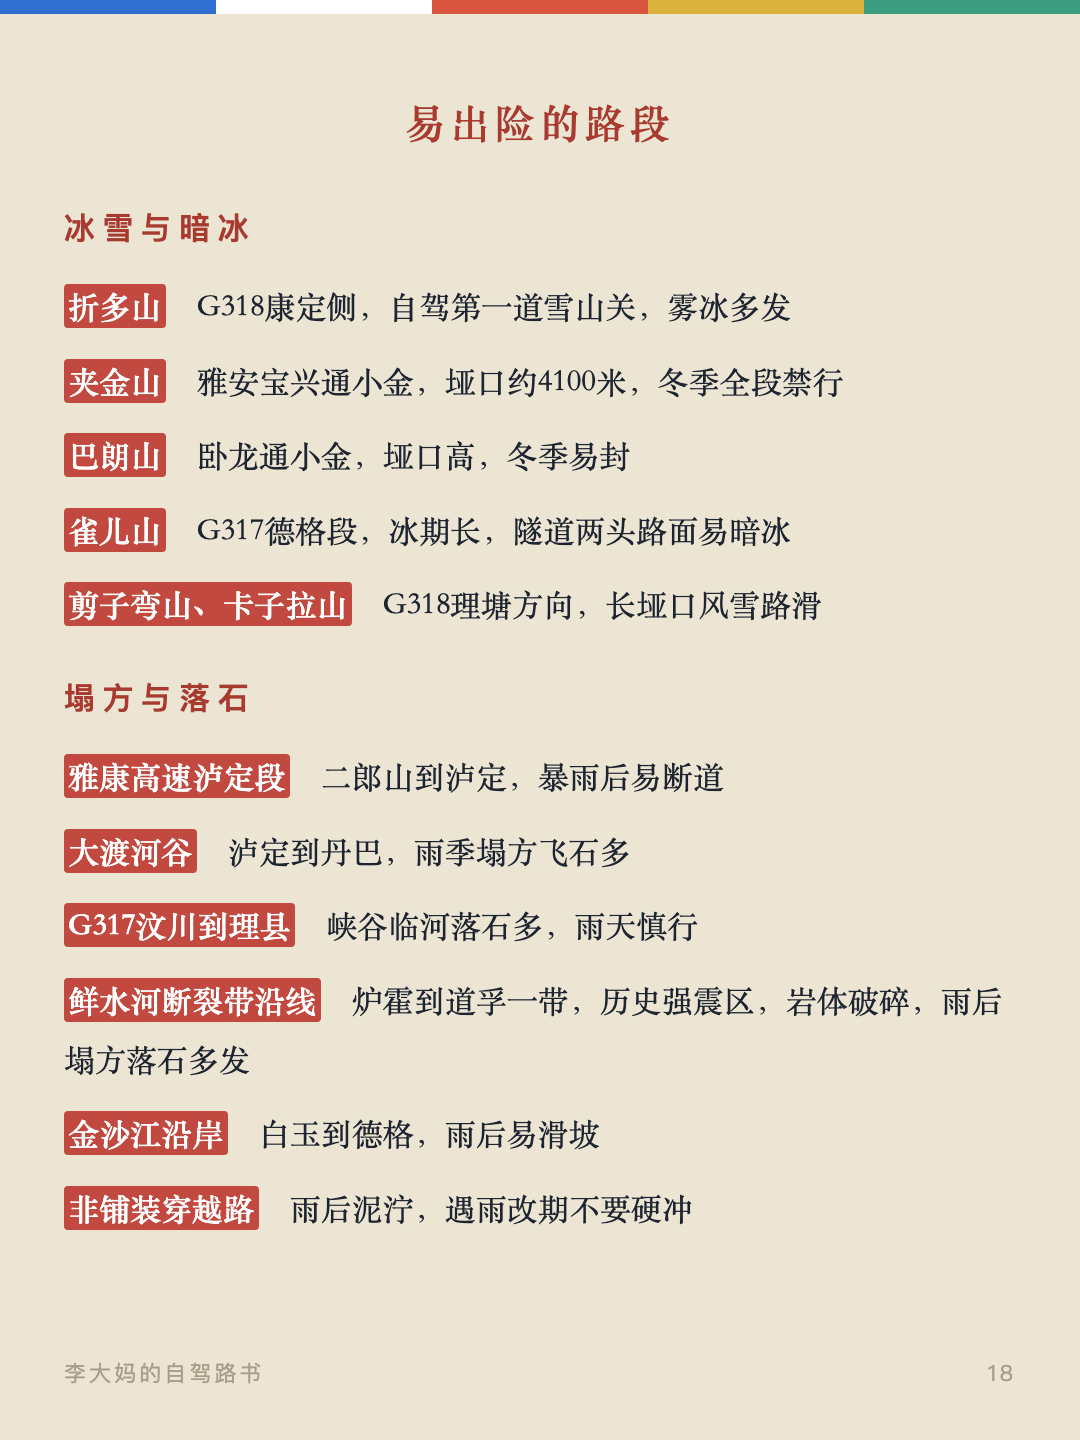
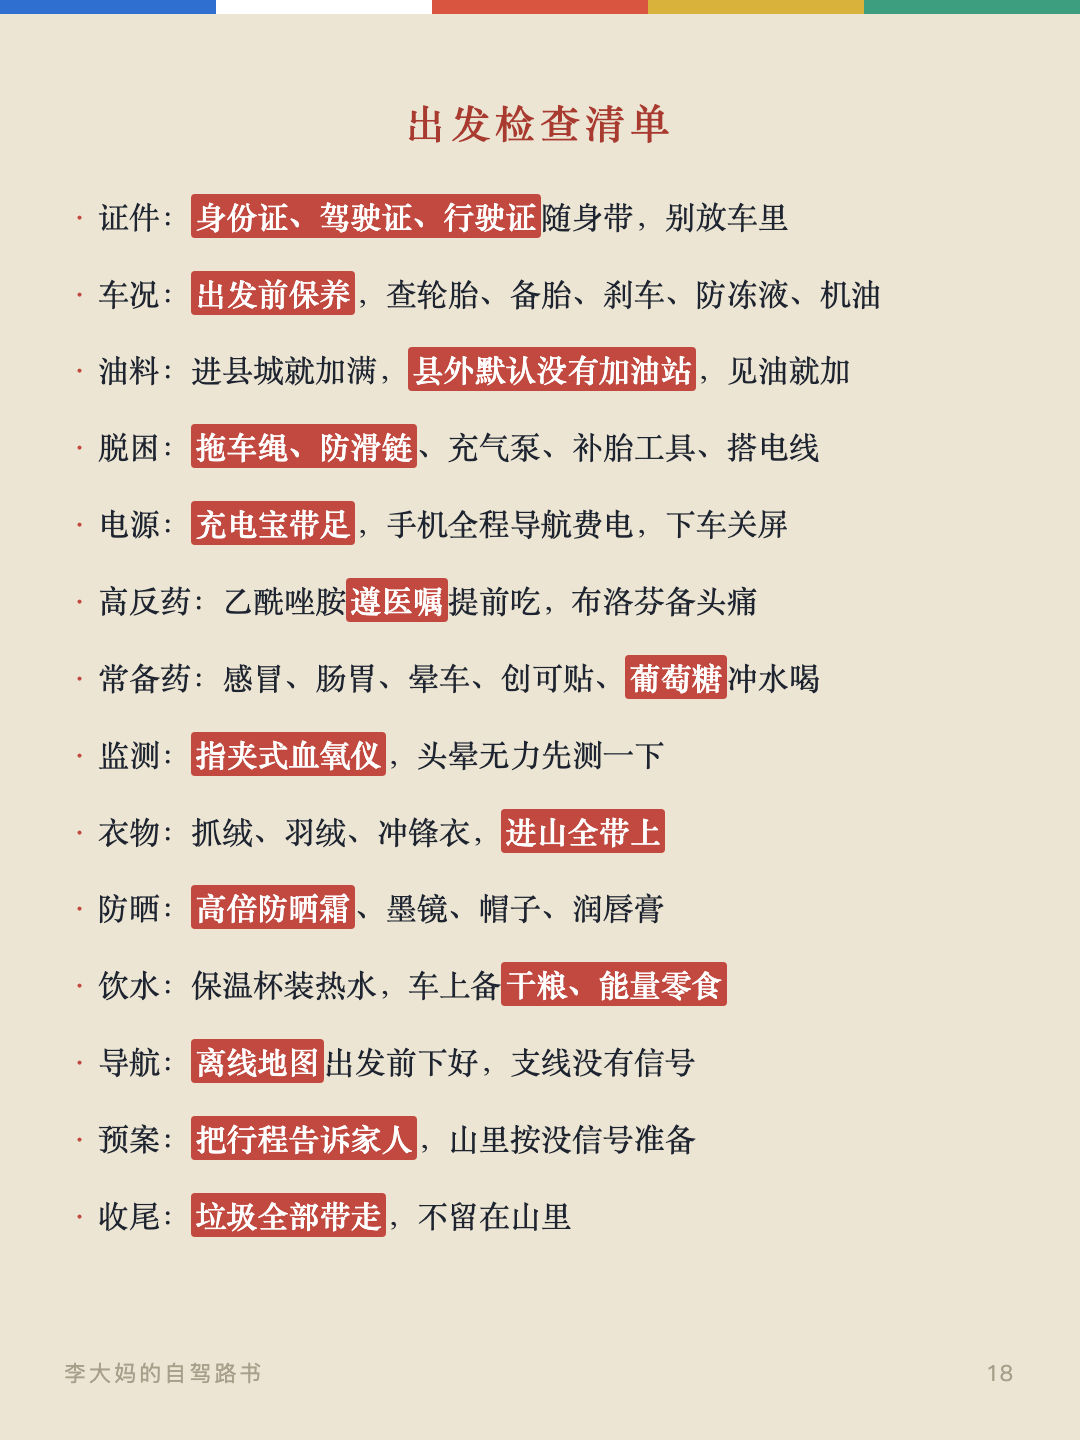
附录三页顺序改为 险段→官方渠道→检查清单（16页现为易出险路段）

diff --git a/cards.html b/cards.html
@@ -153,11 +153,11 @@
 
 <div class="card" id="card15"><div class="flag" aria-hidden="true"><span style="background:var(--flag-blue)"></span><span style="background:var(--flag-white)"></span><span style="background:var(--flag-red)"></span><span style="background:var(--flag-yellow)"></span><span style="background:var(--flag-green)"></span></div><div class="card__inner"><p>民居在藏寨之外还有几路。乡城白藏房，2020年评上“中国白藏房文化之乡”，现存6000多栋，土木结构，土墙夯筑，能用上百年，墙体收成梯形，大小看柱子多少。传统上四到六层，底层养牲畜，二层住人，上面晒粮。每年有个“白色灌礼”的民俗，用山上一种白土拌水从墙头浇下来，把墙浇白，既加固又祈福。木雅藏房在康定木雅地区，片石砌筑。羌族的桃坪羌寨在阿坝理县，房子叫“庄房”，全石砌成，<strong>工匠不绘图、不计算，全凭经验积累</strong>，石墙一层层向内收分，屋顶平台家家相连，外号“东方神秘古堡”。寨里的羌碉9层、高约30米，经受了1933年叠溪、2008年汶川几次大地震。</p><p>寺院建筑，有一套固定骨架：大经堂（指钦）是核心，佛学院（礼仓）、佛殿（拉康）、印经院在侧，整体依山而建，不追求中轴线对称。大经堂空间高阔、柱网密集，阿坝格尔登寺的大经堂有120根大柱子撑起殿顶。<strong>金顶是等级的标志</strong>，重檐歇山、铜瓦鎏金，顶上立镏金宝瓶、法轮金鹿，是藏汉结合的做法，色达东嘎寺主殿金顶用真金箔，几公里外都看得见。辩经场挨着佛学院，僧人在空地上拍掌问答；转经廊绕着佛堂或佛塔排满转经轮，格尔登寺49米高的佛塔外围有几百个小转经轮。各教派都能看：理塘长青春科尔寺1580年建，占地33万平方米，是康区规模最大的格鲁寺；马尔康大藏寺是嘉绒碉房式；木雅地区还有汉藏结合的碉楼经堂。苯教寺院另成一路，金川雍忠拉顶寺是代表。</p><div class="card__foot"><span>李大妈的自驾路书</span><span>15</span></div></div></div>
 
-<div class="card" id="card16"><div class="flag" aria-hidden="true"><span style="background:var(--flag-blue)"></span><span style="background:var(--flag-white)"></span><span style="background:var(--flag-red)"></span><span style="background:var(--flag-yellow)"></span><span style="background:var(--flag-green)"></span></div><div class="card__inner"><h2>出发检查清单</h2><ul class="card__list"><li>证件：<strong>身份证、驾驶证、行驶证</strong>随身带，别放车里</li> <li>车况：<strong>出发前保养</strong>，查轮胎、备胎、刹车、防冻液、机油</li> <li>油料：进县城就加满，<strong>县外默认没有加油站</strong>，见油就加</li> <li>脱困：<strong>拖车绳、防滑链</strong>、充气泵、补胎工具、搭电线</li> <li>电源：<strong>充电宝带足</strong>，手机全程导航费电，下车关屏</li> <li>高反药：乙酰唑胺<strong>遵医嘱</strong>提前吃，布洛芬备头痛</li> <li>常备药：感冒、肠胃、晕车、创可贴、<strong>葡萄糖</strong>冲水喝</li> <li>监测：<strong>指夹式血氧仪</strong>，头晕无力先测一下</li> <li>衣物：抓绒、羽绒、冲锋衣，<strong>进山全带上</strong></li> <li>防晒：<strong>高倍防晒霜</strong>、墨镜、帽子、润唇膏</li> <li>饮水：保温杯装热水，车上备<strong>干粮、能量零食</strong></li> <li>导航：<strong>离线地图</strong>出发前下好，支线没有信号</li> <li>预案：<strong>把行程告诉家人</strong>，山里按没信号准备</li> <li>收尾：<strong>垃圾全部带走</strong>，不留在山里</li></ul><div class="card__foot"><span>李大妈的自驾路书</span><span>16</span></div></div></div>
+<div class="card" id="card16"><div class="flag" aria-hidden="true"><span style="background:var(--flag-blue)"></span><span style="background:var(--flag-white)"></span><span style="background:var(--flag-red)"></span><span style="background:var(--flag-yellow)"></span><span style="background:var(--flag-green)"></span></div><div class="card__inner"><h2>易出险的路段</h2><h3>冰雪与暗冰</h3><ul class="card__cwords"><li><b>折多山</b>G318康定侧，自驾第一道雪山关，雾冰多发</li> <li><b>夹金山</b>雅安宝兴通小金，垭口约4100米，冬季全段禁行</li> <li><b>巴朗山</b>卧龙通小金，垭口高，冬季易封</li> <li><b>雀儿山</b>G317德格段，冰期长，隧道两头路面易暗冰</li> <li><b>剪子弯山、卡子拉山</b>G318理塘方向，长垭口风雪路滑</li></ul><h3>塌方与落石</h3><ul class="card__cwords"><li><b>雅康高速泸定段</b>二郎山到泸定，暴雨后易断道</li> <li><b>大渡河谷</b>泸定到丹巴，雨季塌方飞石多</li> <li><b>G317汶川到理县</b>峡谷临河落石多，雨天慎行</li> <li><b>鲜水河断裂带沿线</b>炉霍到道孚一带，历史强震区，岩体破碎，雨后塌方落石多发</li> <li><b>金沙江沿岸</b>白玉到德格，雨后易滑坡</li> <li><b>非铺装穿越路</b>雨后泥泞，遇雨改期不要硬冲</li></ul><div class="card__foot"><span>李大妈的自驾路书</span><span>16</span></div></div></div>
 
 <div class="card" id="card17"><div class="flag" aria-hidden="true"><span style="background:var(--flag-blue)"></span><span style="background:var(--flag-white)"></span><span style="background:var(--flag-red)"></span><span style="background:var(--flag-yellow)"></span><span style="background:var(--flag-green)"></span></div><div class="card__inner"><h2>路上的官方渠道</h2><h3>路况与管制</h3><ul class="card__cwords"><li><b>四川交通广播</b>FM101.7，省域实时路况和封路，最常用</li> <li><b>四川交警高速公路一支队</b>成都周边和高速管制</li> <li><b>阿坝公安交警</b>阿坝州路况与管制</li> <li><b>甘孜州交管支队</b>甘孜州路况与管制</li> <li><b>康定公安正警事儿</b>折多山管制多临时处置，实时看它</li> <li>高速报警96122，交通监督热线12328</li></ul><h3>天气、充电与预约</h3><ul class="card__cwords"><li><b>四川气象</b>暴雨、地灾气象风险预警</li> <li><b>中央气象台</b>逐县预报准，垭口前看逐小时</li> <li><b>国家预警发布</b>各类预警统一推送</li> <li><b>掌上通甘孜</b>甘孜州充电桩查询，电车补能靠它</li> <li><b>一部手机游阿坝</b>阿坝景区门票预约</li> <li>垭口天气预报，提前一天关注<strong>中央气象台的逐小时预报</strong>定行车窗口；临时管制消息，则以当天的<strong>FM101.7广播和高德路况</strong>为准</li></ul><div class="card__foot"><span>李大妈的自驾路书</span><span>17</span></div></div></div>
 
-<div class="card" id="card18"><div class="flag" aria-hidden="true"><span style="background:var(--flag-blue)"></span><span style="background:var(--flag-white)"></span><span style="background:var(--flag-red)"></span><span style="background:var(--flag-yellow)"></span><span style="background:var(--flag-green)"></span></div><div class="card__inner"><h2>易出险的路段</h2><h3>冰雪与暗冰</h3><ul class="card__cwords"><li><b>折多山</b>G318康定侧，自驾第一道雪山关，雾冰多发</li> <li><b>夹金山</b>雅安宝兴通小金，垭口约4100米，冬季全段禁行</li> <li><b>巴朗山</b>卧龙通小金，垭口高，冬季易封</li> <li><b>雀儿山</b>G317德格段，冰期长，隧道两头路面易暗冰</li> <li><b>剪子弯山、卡子拉山</b>G318理塘方向，长垭口风雪路滑</li></ul><h3>塌方与落石</h3><ul class="card__cwords"><li><b>雅康高速泸定段</b>二郎山到泸定，暴雨后易断道</li> <li><b>大渡河谷</b>泸定到丹巴，雨季塌方飞石多</li> <li><b>G317汶川到理县</b>峡谷临河落石多，雨天慎行</li> <li><b>鲜水河断裂带沿线</b>炉霍到道孚一带，历史强震区，岩体破碎，雨后塌方落石多发</li> <li><b>金沙江沿岸</b>白玉到德格，雨后易滑坡</li> <li><b>非铺装穿越路</b>雨后泥泞，遇雨改期不要硬冲</li></ul><div class="card__foot"><span>李大妈的自驾路书</span><span>18</span></div></div></div>
+<div class="card" id="card18"><div class="flag" aria-hidden="true"><span style="background:var(--flag-blue)"></span><span style="background:var(--flag-white)"></span><span style="background:var(--flag-red)"></span><span style="background:var(--flag-yellow)"></span><span style="background:var(--flag-green)"></span></div><div class="card__inner"><h2>出发检查清单</h2><ul class="card__list"><li>证件：<strong>身份证、驾驶证、行驶证</strong>随身带，别放车里</li> <li>车况：<strong>出发前保养</strong>，查轮胎、备胎、刹车、防冻液、机油</li> <li>油料：进县城就加满，<strong>县外默认没有加油站</strong>，见油就加</li> <li>脱困：<strong>拖车绳、防滑链</strong>、充气泵、补胎工具、搭电线</li> <li>电源：<strong>充电宝带足</strong>，手机全程导航费电，下车关屏</li> <li>高反药：乙酰唑胺<strong>遵医嘱</strong>提前吃，布洛芬备头痛</li> <li>常备药：感冒、肠胃、晕车、创可贴、<strong>葡萄糖</strong>冲水喝</li> <li>监测：<strong>指夹式血氧仪</strong>，头晕无力先测一下</li> <li>衣物：抓绒、羽绒、冲锋衣，<strong>进山全带上</strong></li> <li>防晒：<strong>高倍防晒霜</strong>、墨镜、帽子、润唇膏</li> <li>饮水：保温杯装热水，车上备<strong>干粮、能量零食</strong></li> <li>导航：<strong>离线地图</strong>出发前下好，支线没有信号</li> <li>预案：<strong>把行程告诉家人</strong>，山里按没信号准备</li> <li>收尾：<strong>垃圾全部带走</strong>，不留在山里</li></ul><div class="card__foot"><span>李大妈的自驾路书</span><span>18</span></div></div></div>
 
 
 <script>

diff --git a/index.html b/index.html
@@ -309,24 +309,25 @@
 
     <!-- 附录 -->
     <section class="part appendix" id="appendix">
-      <div class="part__head"><span class="part__no" aria-hidden="true">附</span><h2>出发清单、路况与险段</h2></div>
+      <div class="part__head"><span class="part__no" aria-hidden="true">附</span><h2>险段、官方渠道与出发清单</h2></div>
 
-      <h3>出发检查清单</h3>
-      <ul>
-        <li>证件：<strong>身份证、驾驶证、行驶证</strong>随身带，别放车里</li>
-        <li>车况：<strong>出发前保养</strong>，查轮胎、备胎、刹车、防冻液、机油</li>
-        <li>油料：进县城就加满，<strong>县外默认没有加油站</strong>，见油就加</li>
-        <li>脱困：<strong>拖车绳、防滑链</strong>、充气泵、补胎工具、搭电线</li>
-        <li>电源：<strong>充电宝带足</strong>，手机全程导航费电，下车关屏</li>
-        <li>高反药：乙酰唑胺<strong>遵医嘱</strong>提前吃，布洛芬备头痛</li>
-        <li>常备药：感冒、肠胃、晕车、创可贴、<strong>葡萄糖</strong>冲水喝</li>
-        <li>监测：<strong>指夹式血氧仪</strong>，头晕无力先测一下</li>
-        <li>衣物：抓绒、羽绒、冲锋衣，<strong>进山全带上</strong></li>
-        <li>防晒：<strong>高倍防晒霜</strong>、墨镜、帽子、润唇膏</li>
-        <li>饮水：保温杯装热水，车上备<strong>干粮、能量零食</strong></li>
-        <li>导航：<strong>离线地图</strong>出发前下好，支线没有信号</li>
-        <li>预案：<strong>把行程告诉家人</strong>，山里按没信号准备</li>
-        <li>收尾：<strong>垃圾全部带走</strong>，不留在山里</li>
+      <h3>易出险的路段</h3>
+      <h3>冰雪与暗冰</h3>
+      <ul class="c-words">
+        <li><b>折多山</b>G318康定侧，自驾第一道雪山关，雾冰多发</li>
+        <li><b>夹金山</b>雅安宝兴通小金，垭口约4100米，冬季全段禁行</li>
+        <li><b>巴朗山</b>卧龙通小金，垭口高，冬季易封</li>
+        <li><b>雀儿山</b>G317德格段，冰期长，隧道两头路面易暗冰</li>
+        <li><b>剪子弯山、卡子拉山</b>G318理塘方向，长垭口风雪路滑</li>
+      </ul>
+      <h3>塌方与落石</h3>
+      <ul class="c-words">
+        <li><b>雅康高速泸定段</b>二郎山到泸定，暴雨后易断道</li>
+        <li><b>大渡河谷</b>泸定到丹巴，雨季塌方飞石多</li>
+        <li><b>G317汶川到理县</b>峡谷临河落石多，雨天慎行</li>
+        <li><b>鲜水河断裂带沿线</b>炉霍到道孚一带，历史强震区，岩体破碎，雨后塌方落石多发</li>
+        <li><b>金沙江沿岸</b>白玉到德格，雨后易滑坡</li>
+        <li><b>非铺装穿越路</b>雨后泥泞，遇雨改期不要硬冲</li>
       </ul>
 
       <h3>路况与管制</h3>
@@ -349,23 +350,22 @@
         <li>垭口天气预报，提前一天关注<strong>中央气象台的逐小时预报</strong>定行车窗口；临时管制消息，则以当天的<strong>FM101.7广播和高德路况</strong>为准</li>
       </ul>
 
-      <h3>易出险的路段</h3>
-      <h3>冰雪与暗冰</h3>
-      <ul class="c-words">
-        <li><b>折多山</b>G318康定侧，自驾第一道雪山关，雾冰多发</li>
-        <li><b>夹金山</b>雅安宝兴通小金，垭口约4100米，冬季全段禁行</li>
-        <li><b>巴朗山</b>卧龙通小金，垭口高，冬季易封</li>
-        <li><b>雀儿山</b>G317德格段，冰期长，隧道两头路面易暗冰</li>
-        <li><b>剪子弯山、卡子拉山</b>G318理塘方向，长垭口风雪路滑</li>
-      </ul>
-      <h3>塌方与落石</h3>
-      <ul class="c-words">
-        <li><b>雅康高速泸定段</b>二郎山到泸定，暴雨后易断道</li>
-        <li><b>大渡河谷</b>泸定到丹巴，雨季塌方飞石多</li>
-        <li><b>G317汶川到理县</b>峡谷临河落石多，雨天慎行</li>
-        <li><b>鲜水河断裂带沿线</b>炉霍到道孚一带，历史强震区，岩体破碎，雨后塌方落石多发</li>
-        <li><b>金沙江沿岸</b>白玉到德格，雨后易滑坡</li>
-        <li><b>非铺装穿越路</b>雨后泥泞，遇雨改期不要硬冲</li>
+      <h3>出发检查清单</h3>
+      <ul>
+        <li>证件：<strong>身份证、驾驶证、行驶证</strong>随身带，别放车里</li>
+        <li>车况：<strong>出发前保养</strong>，查轮胎、备胎、刹车、防冻液、机油</li>
+        <li>油料：进县城就加满，<strong>县外默认没有加油站</strong>，见油就加</li>
+        <li>脱困：<strong>拖车绳、防滑链</strong>、充气泵、补胎工具、搭电线</li>
+        <li>电源：<strong>充电宝带足</strong>，手机全程导航费电，下车关屏</li>
+        <li>高反药：乙酰唑胺<strong>遵医嘱</strong>提前吃，布洛芬备头痛</li>
+        <li>常备药：感冒、肠胃、晕车、创可贴、<strong>葡萄糖</strong>冲水喝</li>
+        <li>监测：<strong>指夹式血氧仪</strong>，头晕无力先测一下</li>
+        <li>衣物：抓绒、羽绒、冲锋衣，<strong>进山全带上</strong></li>
+        <li>防晒：<strong>高倍防晒霜</strong>、墨镜、帽子、润唇膏</li>
+        <li>饮水：保温杯装热水，车上备<strong>干粮、能量零食</strong></li>
+        <li>导航：<strong>离线地图</strong>出发前下好，支线没有信号</li>
+        <li>预案：<strong>把行程告诉家人</strong>，山里按没信号准备</li>
+        <li>收尾：<strong>垃圾全部带走</strong>，不留在山里</li>
       </ul>
     </section>
 

diff --git a/gen_cards.py b/gen_cards.py
@@ -90,10 +90,13 @@ BODY_STREAM = [
 ]
 
 A_PAGES = [
-  # 附录第1页（16）——出发检查清单（通用版）
+  # 附录第1页（18）——易出险的路段（通用版，常走路段在前）
   [
-    ('h2', '出发检查清单'),
-    ('list', '<li>证件：<strong>身份证、驾驶证、行驶证</strong>随身带，别放车里</li> <li>车况：<strong>出发前保养</strong>，查轮胎、备胎、刹车、防冻液、机油</li> <li>油料：进县城就加满，<strong>县外默认没有加油站</strong>，见油就加</li> <li>脱困：<strong>拖车绳、防滑链</strong>、充气泵、补胎工具、搭电线</li> <li>电源：<strong>充电宝带足</strong>，手机全程导航费电，下车关屏</li> <li>高反药：乙酰唑胺<strong>遵医嘱</strong>提前吃，布洛芬备头痛</li> <li>常备药：感冒、肠胃、晕车、创可贴、<strong>葡萄糖</strong>冲水喝</li> <li>监测：<strong>指夹式血氧仪</strong>，头晕无力先测一下</li> <li>衣物：抓绒、羽绒、冲锋衣，<strong>进山全带上</strong></li> <li>防晒：<strong>高倍防晒霜</strong>、墨镜、帽子、润唇膏</li> <li>饮水：保温杯装热水，车上备<strong>干粮、能量零食</strong></li> <li>导航：<strong>离线地图</strong>出发前下好，支线没有信号</li> <li>预案：<strong>把行程告诉家人</strong>，山里按没信号准备</li> <li>收尾：<strong>垃圾全部带走</strong>，不留在山里</li>'),
+    ('h2', '易出险的路段'),
+    ('h3', '冰雪与暗冰'),
+    ('cwords', '<li><b>折多山</b>G318康定侧，自驾第一道雪山关，雾冰多发</li> <li><b>夹金山</b>雅安宝兴通小金，垭口约4100米，冬季全段禁行</li> <li><b>巴朗山</b>卧龙通小金，垭口高，冬季易封</li> <li><b>雀儿山</b>G317德格段，冰期长，隧道两头路面易暗冰</li> <li><b>剪子弯山、卡子拉山</b>G318理塘方向，长垭口风雪路滑</li>'),
+    ('h3', '塌方与落石'),
+    ('cwords', '<li><b>雅康高速泸定段</b>二郎山到泸定，暴雨后易断道</li> <li><b>大渡河谷</b>泸定到丹巴，雨季塌方飞石多</li> <li><b>G317汶川到理县</b>峡谷临河落石多，雨天慎行</li> <li><b>鲜水河断裂带沿线</b>炉霍到道孚一带，历史强震区，岩体破碎，雨后塌方落石多发</li> <li><b>金沙江沿岸</b>白玉到德格，雨后易滑坡</li> <li><b>非铺装穿越路</b>雨后泥泞，遇雨改期不要硬冲</li>'),
   ],
   # 附录第2页（17）——路况与预警的官方渠道
   [
@@ -103,13 +106,10 @@ A_PAGES = [
     ('h3', '天气、充电与预约'),
     ('cwords', '<li><b>四川气象</b>暴雨、地灾气象风险预警</li> <li><b>中央气象台</b>逐县预报准，垭口前看逐小时</li> <li><b>国家预警发布</b>各类预警统一推送</li> <li><b>掌上通甘孜</b>甘孜州充电桩查询，电车补能靠它</li> <li><b>一部手机游阿坝</b>阿坝景区门票预约</li> <li>垭口天气预报，提前一天关注<strong>中央气象台的逐小时预报</strong>定行车窗口；临时管制消息，则以当天的<strong>FM101.7广播和高德路况</strong>为准</li>'),
   ],
-  # 附录第3页（18）——易出险的路段（通用版，常走路段在前）
+  # 附录第3页（16）——出发检查清单（通用版）
   [
-    ('h2', '易出险的路段'),
-    ('h3', '冰雪与暗冰'),
-    ('cwords', '<li><b>折多山</b>G318康定侧，自驾第一道雪山关，雾冰多发</li> <li><b>夹金山</b>雅安宝兴通小金，垭口约4100米，冬季全段禁行</li> <li><b>巴朗山</b>卧龙通小金，垭口高，冬季易封</li> <li><b>雀儿山</b>G317德格段，冰期长，隧道两头路面易暗冰</li> <li><b>剪子弯山、卡子拉山</b>G318理塘方向，长垭口风雪路滑</li>'),
-    ('h3', '塌方与落石'),
-    ('cwords', '<li><b>雅康高速泸定段</b>二郎山到泸定，暴雨后易断道</li> <li><b>大渡河谷</b>泸定到丹巴，雨季塌方飞石多</li> <li><b>G317汶川到理县</b>峡谷临河落石多，雨天慎行</li> <li><b>鲜水河断裂带沿线</b>炉霍到道孚一带，历史强震区，岩体破碎，雨后塌方落石多发</li> <li><b>金沙江沿岸</b>白玉到德格，雨后易滑坡</li> <li><b>非铺装穿越路</b>雨后泥泞，遇雨改期不要硬冲</li>'),
+    ('h2', '出发检查清单'),
+    ('list', '<li>证件：<strong>身份证、驾驶证、行驶证</strong>随身带，别放车里</li> <li>车况：<strong>出发前保养</strong>，查轮胎、备胎、刹车、防冻液、机油</li> <li>油料：进县城就加满，<strong>县外默认没有加油站</strong>，见油就加</li> <li>脱困：<strong>拖车绳、防滑链</strong>、充气泵、补胎工具、搭电线</li> <li>电源：<strong>充电宝带足</strong>，手机全程导航费电，下车关屏</li> <li>高反药：乙酰唑胺<strong>遵医嘱</strong>提前吃，布洛芬备头痛</li> <li>常备药：感冒、肠胃、晕车、创可贴、<strong>葡萄糖</strong>冲水喝</li> <li>监测：<strong>指夹式血氧仪</strong>，头晕无力先测一下</li> <li>衣物：抓绒、羽绒、冲锋衣，<strong>进山全带上</strong></li> <li>防晒：<strong>高倍防晒霜</strong>、墨镜、帽子、润唇膏</li> <li>饮水：保温杯装热水，车上备<strong>干粮、能量零食</strong></li> <li>导航：<strong>离线地图</strong>出发前下好，支线没有信号</li> <li>预案：<strong>把行程告诉家人</strong>，山里按没信号准备</li> <li>收尾：<strong>垃圾全部带走</strong>，不留在山里</li>'),
   ],
 ]
 
